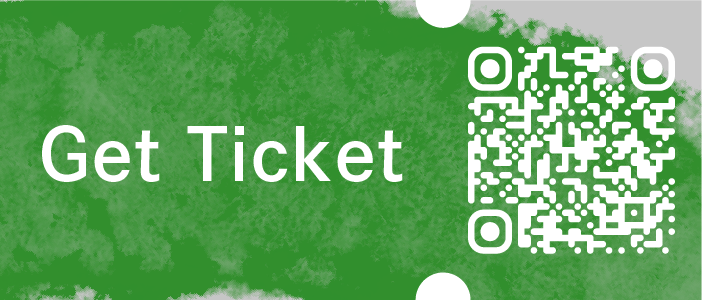
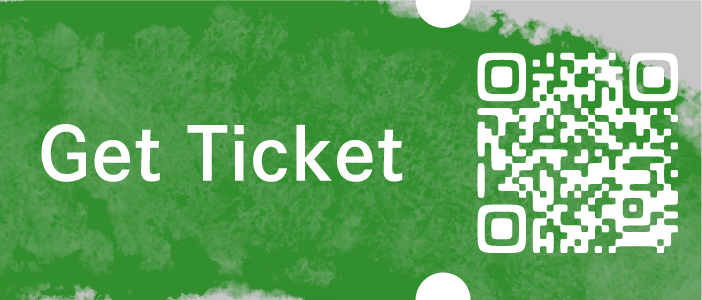
Replace Japanese and English reservation QR images

diff --git a/public/reference-preview.html b/public/reference-preview.html
@@ -37,7 +37,7 @@
 <a class="skip-link" href="#works">作品へスキップ</a>
 <header class="top-header"><a class="brand" href="#top" aria-label="東京大学制作展 2026 トップへ"><img src="assets/top/logo-lockup.png" alt=""></a><button class="top-menu-toggle" type="button" aria-expanded="false" aria-controls="top-nav" aria-label="メニューを開く"><span></span><span></span><span></span><span></span></button><nav id="top-nav" aria-label="ページ内ナビゲーション"><a href="#concept" aria-label="コンセプト"><img src="assets/top/nav-concept.svg" alt=""></a><a href="#works" aria-label="作品"><img src="assets/top/nav-works.svg" alt=""></a><a href="#announce" aria-label="お知らせ"><img src="assets/top/nav-announce.svg" alt=""></a><a href="#access" aria-label="アクセス"><img src="assets/top/nav-access.svg" alt=""></a><a href="#members" aria-label="メンバー"><img src="assets/top/nav-members.svg" alt=""></a><a href="#archives" aria-label="アーカイブ"><img src="assets/top/nav-archives.svg" alt=""></a></nav></header>
 <main>
-<section class="hero" id="top"><h1 class="visually-hidden">東京大学制作展 2026</h1><div class="hero-art" aria-hidden="true"><img class="hero-brush" src="assets/concept/iiiex2026-logo.png" alt=""><img class="hero-logo" src="assets/concept/iiiex2026-logo.png" alt=""></div><div class="hero-composition" aria-hidden="true"><img class="hero-title-ja" src="assets/top/title-ja-latest.svg" alt=""><img class="hero-venue" src="assets/top/venue-latest.svg" alt=""><img class="hero-dates" src="assets/top/dates-latest.svg" alt=""><img class="hero-wordmark" src="assets/top/wordmark-latest.svg" alt=""></div><a class="hero-reservation" href="https://iii-exhibition2026.peatix.com/" target="_blank" rel="noopener noreferrer" aria-label="来場予約（新しいタブで開く）"><img class="hero-ticket" src="assets/top/reservation-ticket.png" alt="来場予約"></a><div class="hero-venue-list" role="group" aria-label="会場"><div><p class="hero-venue-building">A 工学部2号館</p><ul><li><span class="hero-venue-floor">2F</span>フォーラム</li><li><span class="hero-venue-floor">2F</span>展示室 (受付)</li><li><span class="hero-venue-floor">9F</span>Sky Presentation Room</li></ul></div><div><p class="hero-venue-building">B 情報学環本館</p><ul><li><span class="hero-venue-floor">B1F</span>情報学環オープンスタジオ</li></ul></div></div><a class="hero-scroll" href="#concept"><span>SCROLL</span><span aria-hidden="true">↓</span></a></section>
+<section class="hero" id="top"><h1 class="visually-hidden">東京大学制作展 2026</h1><div class="hero-art" aria-hidden="true"><img class="hero-brush" src="assets/concept/iiiex2026-logo.png" alt=""><img class="hero-logo" src="assets/concept/iiiex2026-logo.png" alt=""></div><div class="hero-composition" aria-hidden="true"><img class="hero-title-ja" src="assets/top/title-ja-latest.svg" alt=""><img class="hero-venue" src="assets/top/venue-latest.svg" alt=""><img class="hero-dates" src="assets/top/dates-latest.svg" alt=""><img class="hero-wordmark" src="assets/top/wordmark-latest.svg" alt=""></div><a class="hero-reservation" href="https://iii-exhibition2026.peatix.com/" target="_blank" rel="noopener noreferrer" aria-label="来場予約（新しいタブで開く）"><img class="hero-ticket" src="assets/top/reservation-ticket-ja.webp" alt="来場予約"></a><div class="hero-venue-list" role="group" aria-label="会場"><div><p class="hero-venue-building">A 工学部2号館</p><ul><li><span class="hero-venue-floor">2F</span>フォーラム</li><li><span class="hero-venue-floor">2F</span>展示室 (受付)</li><li><span class="hero-venue-floor">9F</span>Sky Presentation Room</li></ul></div><div><p class="hero-venue-building">B 情報学環本館</p><ul><li><span class="hero-venue-floor">B1F</span>情報学環オープンスタジオ</li></ul></div></div><a class="hero-scroll" href="#concept"><span>SCROLL</span><span aria-hidden="true">↓</span></a></section>
 <section class="concept concept-story" id="concept" aria-label="コンセプト"><div class="story-pin"><div class="concept-visual" aria-hidden="true"><div><img src="assets/concept/logo-scanimation-composite.png" alt=""><img class="moving-mask" src="assets/concept/logo-scanimation-mask.png" alt=""></div></div><div class="story-content"><div class="section-top"><span>01 / CONCEPT</span><span>東京大学 制作展 2026</span></div><div class="story-copy"><p>作品とともに、<br class="sp-br">「わたし（i）」が存在する。<br>異なる「わたし」が連なり、<br>「わたしたち（iii）」となって、展示空間で混ざり合う。</p><p>つくる。観る。触れる。考える。<br>それぞれの「わたし」の<br class="sp-br">視点が交差するとき、<br>作品は、<br class="sp-br">つくり手の想像を越えてゆく。</p><p>自分だけの声で、作品にふれる。<br>自分だけの心で、視点を耕す。</p><p>異なる専門、異なる問い、<br class="sp-br">異なる「わたし」が交わる場所で、<br>今年もまた、<br class="sp-br">新しい知のかたちが動き出します。</p><p>昨日まで知らなかった世界と、<br>そこで、はじめて気づく自分自身を、<br>迎えにきてください。</p></div></div></div></section>
 <section class="works" id="works"><div class="section-top"><span>02 / WORKS</span></div><div class="rings"><div class="ring-group" data-work="0"><div class="ring" aria-label="Memory Landscapesの作品円環"></div><div class="ring-label"><span>SPACE A / 01</span><h3>Memory Landscapes</h3><p>記憶の風景を歩くVR</p></div></div><div class="ring-group" data-work="1"><div class="ring" aria-label="Molluskの作品円環"></div><div class="ring-label"><span>SPACE B / 02</span><h3>Mollusk</h3><p>境界を見つめる</p></div></div></div><div class="works-bottom"><button class="text-link" id="list-toggle" aria-expanded="false">作品を一覧で見る ＋</button></div><div id="work-list" hidden></div></section>
 <section class="announce" id="announce" aria-labelledby="announce-heading">

diff --git a/reference/preview.html b/reference/preview.html
@@ -41,7 +41,7 @@
 <a class="skip-link" href="#works">作品へスキップ</a>
 <header class="top-header"><a class="brand" href="#top" aria-label="東京大学制作展 2026 トップへ"><img src="assets/top/logo-lockup.png" alt=""></a><button class="top-menu-toggle" type="button" aria-expanded="false" aria-controls="top-nav" aria-label="メニューを開く"><span></span><span></span><span></span><span></span></button><nav id="top-nav" aria-label="ページ内ナビゲーション"><a href="#concept" aria-label="コンセプト"><img src="assets/top/nav-concept.svg" alt=""></a><a href="#works" aria-label="作品"><img src="assets/top/nav-works.svg" alt=""></a><a href="#announce" aria-label="お知らせ"><img src="assets/top/nav-announce.svg" alt=""></a><a href="#access" aria-label="アクセス"><img src="assets/top/nav-access.svg" alt=""></a><a href="#members" aria-label="メンバー"><img src="assets/top/nav-members.svg" alt=""></a><a href="#archives" aria-label="アーカイブ"><img src="assets/top/nav-archives.svg" alt=""></a></nav></header>
 <main>
-<section class="hero" id="top"><h1 class="visually-hidden">東京大学制作展 2026</h1><div class="hero-art" aria-hidden="true"><img class="hero-brush" src="assets/concept/iiiex2026-logo.png" alt=""><img class="hero-logo" src="assets/concept/iiiex2026-logo.png" alt=""></div><div class="hero-composition" aria-hidden="true"><img class="hero-title-ja" src="assets/top/title-ja-latest.svg" alt=""><img class="hero-venue" src="assets/top/venue-latest.svg" alt=""><img class="hero-dates" src="assets/top/dates-latest.svg" alt=""><img class="hero-wordmark" src="assets/top/wordmark-latest.svg" alt=""></div><a class="hero-reservation" href="https://iii-exhibition2026.peatix.com/" target="_blank" rel="noopener noreferrer" aria-label="来場予約（新しいタブで開く）"><img class="hero-ticket" src="assets/top/reservation-ticket.png" alt="来場予約"></a><div class="hero-venue-list" role="group" aria-label="会場"><div><p class="hero-venue-building">A 工学部2号館</p><ul><li><span class="hero-venue-floor">2F</span>フォーラム</li><li><span class="hero-venue-floor">2F</span>展示室 (受付)</li><li><span class="hero-venue-floor">9F</span>Sky Presentation Room</li></ul></div><div><p class="hero-venue-building">B 情報学環本館</p><ul><li><span class="hero-venue-floor">B1F</span>情報学環オープンスタジオ</li></ul></div></div><a class="hero-scroll" href="#concept"><span>SCROLL</span><span aria-hidden="true">↓</span></a></section>
+<section class="hero" id="top"><h1 class="visually-hidden">東京大学制作展 2026</h1><div class="hero-art" aria-hidden="true"><img class="hero-brush" src="assets/concept/iiiex2026-logo.png" alt=""><img class="hero-logo" src="assets/concept/iiiex2026-logo.png" alt=""></div><div class="hero-composition" aria-hidden="true"><img class="hero-title-ja" src="assets/top/title-ja-latest.svg" alt=""><img class="hero-venue" src="assets/top/venue-latest.svg" alt=""><img class="hero-dates" src="assets/top/dates-latest.svg" alt=""><img class="hero-wordmark" src="assets/top/wordmark-latest.svg" alt=""></div><a class="hero-reservation" href="https://iii-exhibition2026.peatix.com/" target="_blank" rel="noopener noreferrer" aria-label="来場予約（新しいタブで開く）"><img class="hero-ticket" src="assets/top/reservation-ticket-ja.webp" alt="来場予約"></a><div class="hero-venue-list" role="group" aria-label="会場"><div><p class="hero-venue-building">A 工学部2号館</p><ul><li><span class="hero-venue-floor">2F</span>フォーラム</li><li><span class="hero-venue-floor">2F</span>展示室 (受付)</li><li><span class="hero-venue-floor">9F</span>Sky Presentation Room</li></ul></div><div><p class="hero-venue-building">B 情報学環本館</p><ul><li><span class="hero-venue-floor">B1F</span>情報学環オープンスタジオ</li></ul></div></div><a class="hero-scroll" href="#concept"><span>SCROLL</span><span aria-hidden="true">↓</span></a></section>
 <section class="concept concept-story" id="concept" aria-label="コンセプト"><div class="story-pin"><div class="concept-visual" aria-hidden="true"><div><img src="assets/concept/logo-scanimation-composite.png" alt=""><img class="moving-mask" src="assets/concept/logo-scanimation-mask.png" alt=""></div></div><div class="story-content"><div class="section-top"><span>01 / CONCEPT</span><span>東京大学 制作展 2026</span></div><div class="story-copy"><p>作品とともに、<br class="sp-br">「わたし（i）」が存在する。<br>異なる「わたし」が連なり、<br>「わたしたち（iii）」となって、展示空間で混ざり合う。</p><p>つくる。観る。触れる。考える。<br>それぞれの「わたし」の<br class="sp-br">視点が交差するとき、<br>作品は、<br class="sp-br">つくり手の想像を越えてゆく。</p><p>自分だけの声で、作品にふれる。<br>自分だけの心で、視点を耕す。</p><p>異なる専門、異なる問い、<br class="sp-br">異なる「わたし」が交わる場所で、<br>今年もまた、<br class="sp-br">新しい知のかたちが動き出します。</p><p>昨日まで知らなかった世界と、<br>そこで、はじめて気づく自分自身を、<br>迎えにきてください。</p></div></div></div></section>
 <section class="works" id="works"><div class="section-top"><span>02 / WORKS</span></div><div class="rings"><div class="ring-group" data-work="0"><div class="ring" aria-label="Memory Landscapesの作品円環"></div><div class="ring-label"><span>SPACE A / 01</span><h3>Memory Landscapes</h3><p>記憶の風景を歩くVR</p></div></div><div class="ring-group" data-work="1"><div class="ring" aria-label="Molluskの作品円環"></div><div class="ring-label"><span>SPACE B / 02</span><h3>Mollusk</h3><p>境界を見つめる</p></div></div></div><div class="works-bottom"><button class="text-link" id="list-toggle" aria-expanded="false">作品を一覧で見る ＋</button></div><div id="work-list" hidden></div></section>
 <section class="announce" id="announce" aria-labelledby="announce-heading">

diff --git a/src/reference/page.html b/src/reference/page.html
@@ -1,7 +1,7 @@
 <a class="skip-link" href="#works">作品へスキップ</a>
 <header class="top-header"><a class="brand" href="#top" aria-label="東京大学制作展 2026 トップへ"><img src="assets/top/logo-lockup.png" alt=""></a><button class="top-menu-toggle" type="button" aria-expanded="false" aria-controls="top-nav" aria-label="メニューを開く"><span></span><span></span><span></span><span></span></button><nav id="top-nav" aria-label="ページ内ナビゲーション"><a href="#concept" aria-label="コンセプト"><img src="assets/top/nav-concept.svg" alt=""></a><a href="#works" aria-label="作品"><img src="assets/top/nav-works.svg" alt=""></a><a href="#announce" aria-label="お知らせ"><img src="assets/top/nav-announce.svg" alt=""></a><a href="#access" aria-label="アクセス"><img src="assets/top/nav-access.svg" alt=""></a><a href="#members" aria-label="メンバー"><img src="assets/top/nav-members.svg" alt=""></a><a href="#archives" aria-label="アーカイブ"><img src="assets/top/nav-archives.svg" alt=""></a></nav></header>
 <main>
-<section class="hero" id="top"><h1 class="visually-hidden">東京大学制作展 2026</h1><div class="hero-art" aria-hidden="true"><img class="hero-brush" src="assets/concept/iiiex2026-logo.png" alt=""><img class="hero-logo" src="assets/concept/iiiex2026-logo.png" alt=""></div><div class="hero-composition" aria-hidden="true"><img class="hero-title-ja" src="assets/top/title-ja-latest.svg" alt=""><img class="hero-venue" src="assets/top/venue-latest.svg" alt=""><img class="hero-dates" src="assets/top/dates-latest.svg" alt=""><img class="hero-wordmark" src="assets/top/wordmark-latest.svg" alt=""></div><a class="hero-reservation" href="https://iii-exhibition2026.peatix.com/" target="_blank" rel="noopener noreferrer" aria-label="来場予約（新しいタブで開く）"><img class="hero-ticket" src="assets/top/reservation-ticket.png" alt="来場予約"></a><div class="hero-venue-list" role="group" aria-label="会場"><div><p class="hero-venue-building">A 工学部2号館</p><ul><li><span class="hero-venue-floor">2F</span>フォーラム</li><li><span class="hero-venue-floor">2F</span>展示室 (受付)</li><li><span class="hero-venue-floor">9F</span>Sky Presentation Room</li></ul></div><div><p class="hero-venue-building">B 情報学環本館</p><ul><li><span class="hero-venue-floor">B1F</span>情報学環オープンスタジオ</li></ul></div></div><a class="hero-scroll" href="#concept"><span>SCROLL</span><span aria-hidden="true">↓</span></a></section>
+<section class="hero" id="top"><h1 class="visually-hidden">東京大学制作展 2026</h1><div class="hero-art" aria-hidden="true"><img class="hero-brush" src="assets/concept/iiiex2026-logo.png" alt=""><img class="hero-logo" src="assets/concept/iiiex2026-logo.png" alt=""></div><div class="hero-composition" aria-hidden="true"><img class="hero-title-ja" src="assets/top/title-ja-latest.svg" alt=""><img class="hero-venue" src="assets/top/venue-latest.svg" alt=""><img class="hero-dates" src="assets/top/dates-latest.svg" alt=""><img class="hero-wordmark" src="assets/top/wordmark-latest.svg" alt=""></div><a class="hero-reservation" href="https://iii-exhibition2026.peatix.com/" target="_blank" rel="noopener noreferrer" aria-label="来場予約（新しいタブで開く）"><img class="hero-ticket" src="assets/top/reservation-ticket-ja.webp" alt="来場予約"></a><div class="hero-venue-list" role="group" aria-label="会場"><div><p class="hero-venue-building">A 工学部2号館</p><ul><li><span class="hero-venue-floor">2F</span>フォーラム</li><li><span class="hero-venue-floor">2F</span>展示室 (受付)</li><li><span class="hero-venue-floor">9F</span>Sky Presentation Room</li></ul></div><div><p class="hero-venue-building">B 情報学環本館</p><ul><li><span class="hero-venue-floor">B1F</span>情報学環オープンスタジオ</li></ul></div></div><a class="hero-scroll" href="#concept"><span>SCROLL</span><span aria-hidden="true">↓</span></a></section>
 <section class="concept concept-story" id="concept" aria-label="コンセプト"><div class="story-pin"><div class="concept-visual" aria-hidden="true"><div><img src="assets/concept/logo-scanimation-composite.png" alt=""><img class="moving-mask" src="assets/concept/logo-scanimation-mask.png" alt=""></div></div><div class="story-content"><div class="section-top"><span>01 / CONCEPT</span><span>東京大学 制作展 2026</span></div><div class="story-copy"><p>作品とともに、<br class="sp-br">「わたし（i）」が存在する。<br>異なる「わたし」が連なり、<br>「わたしたち（iii）」となって、展示空間で混ざり合う。</p><p>つくる。観る。触れる。考える。<br>それぞれの「わたし」の<br class="sp-br">視点が交差するとき、<br>作品は、<br class="sp-br">つくり手の想像を越えてゆく。</p><p>自分だけの声で、作品にふれる。<br>自分だけの心で、視点を耕す。</p><p>異なる専門、異なる問い、<br class="sp-br">異なる「わたし」が交わる場所で、<br>今年もまた、<br class="sp-br">新しい知のかたちが動き出します。</p><p>昨日まで知らなかった世界と、<br>そこで、はじめて気づく自分自身を、<br>迎えにきてください。</p></div></div></div></section>
 <section class="works" id="works"><div class="section-top"><span>02 / WORKS</span></div><div class="rings"><div class="ring-group" data-work="0"><div class="ring" aria-label="Memory Landscapesの作品円環"></div><div class="ring-label"><span>SPACE A / 01</span><h3>Memory Landscapes</h3><p>記憶の風景を歩くVR</p></div></div><div class="ring-group" data-work="1"><div class="ring" aria-label="Molluskの作品円環"></div><div class="ring-label"><span>SPACE B / 02</span><h3>Mollusk</h3><p>境界を見つめる</p></div></div></div><div class="works-bottom"><button class="text-link" id="list-toggle" aria-expanded="false">作品を一覧で見る ＋</button></div><div id="work-list" hidden></div></section>
 <section class="announce" id="announce" aria-labelledby="announce-heading">

diff --git a/tests/language.spec.ts b/tests/language.spec.ts
@@ -33,7 +33,7 @@ test('hero language choice persists through sections and dynamic works', async (
   await control.getByRole('button', { name: 'JA', exact: true }).click();
   await expect(page.locator('.hero-ticket')).toHaveAttribute(
     'src',
-    'assets/top/reservation-ticket.png',
+    'assets/top/reservation-ticket-ja.webp',
   );
   await expect(page.locator('.announce-fund')).toContainText(
     '基金ページを見る',
